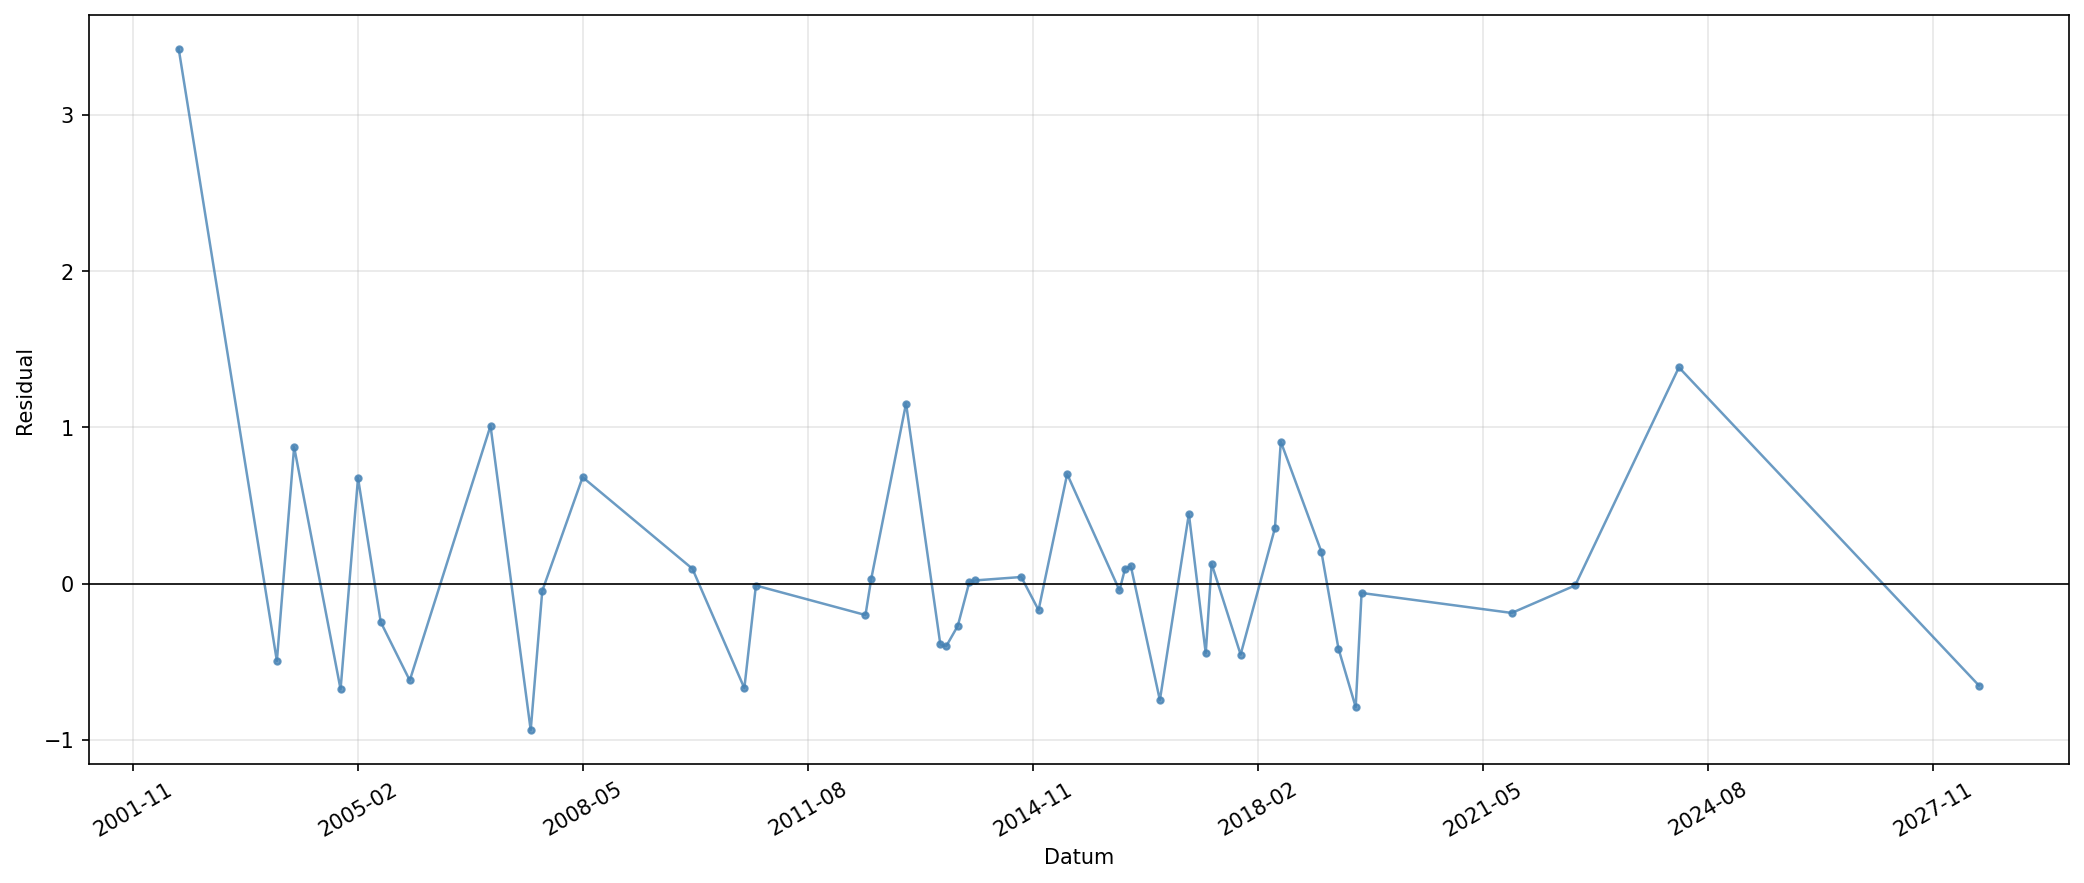
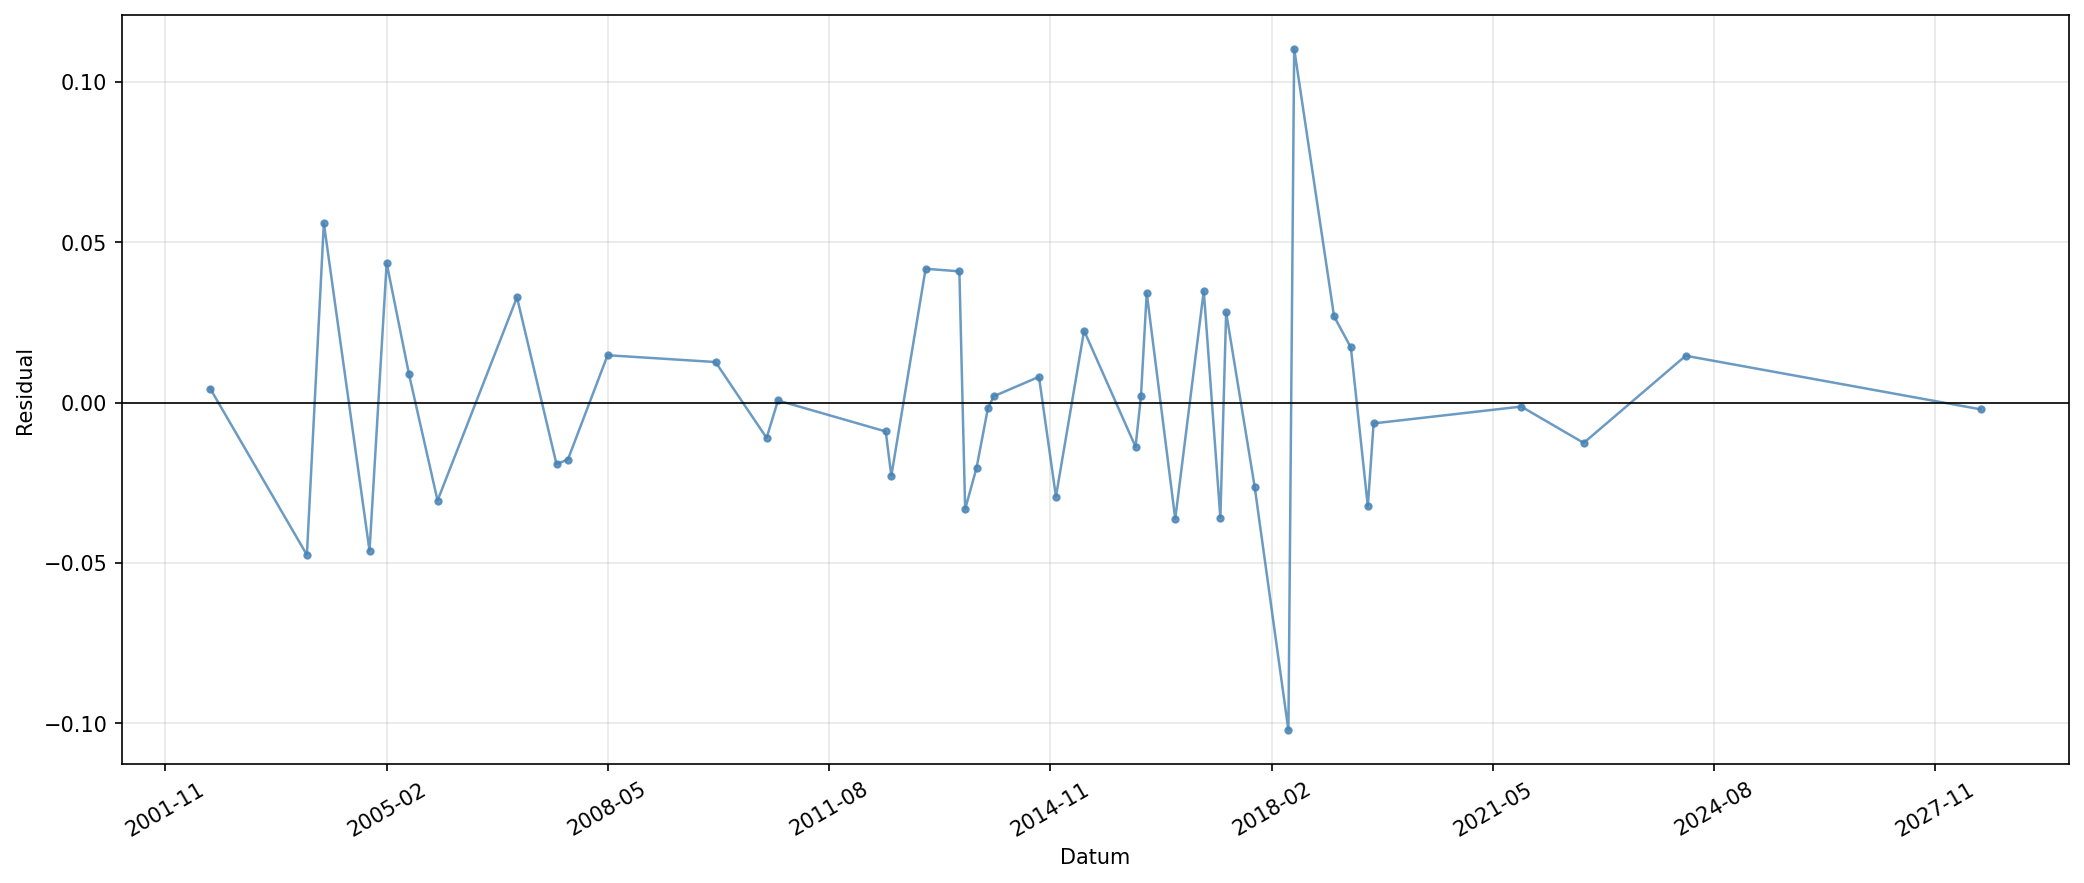
fixade residualerna
fixade residualerna

diff --git a/kandidatuppsats_endast_basror.py b/kandidatuppsats_endast_basror.py
@@ -371,7 +371,7 @@ def plot_acf_residuals(out: dict, station_id: str, lags: int = 20) -> plt.Figure
     Lodräta staplar, streckade CI-linjer, grid.
     """
     obs  = out["observed_base"]
-    pred = out["filter_pred_base"].flatten()[:len(obs)]
+    pred = out["pred_base"].flatten()[:len(obs)]
     residualer = obs - pred
 
     residualer_series = pd.Series(residualer).dropna()
@@ -407,7 +407,7 @@ def plot_histogram_residuals(out: dict, station_id: str) -> plt.Figure:
     Histogram av residualerna med överlagrad normalfördelningskurva.
     """
     obs = out["observed_base"]
-    pred = out["filter_pred_base"].flatten()[:len(obs)]
+    pred = out["pred_base"].flatten()[:len(obs)]
     residualer = pd.Series(obs - pred).dropna().values
 
     if len(residualer) < 10:
@@ -416,7 +416,7 @@ def plot_histogram_residuals(out: dict, station_id: str) -> plt.Figure:
 
     fig, ax = plt.subplots(figsize=(8, 5))
 
-    ax.hist(residualer, bins=40, density=True, alpha=0.7,
+    ax.hist(residualer, bins="auto", density=True, alpha=0.7,
             color="steelblue", edgecolor="white", label="Residualer")
 
     mu, sigma = residualer.mean(), residualer.std()
@@ -442,7 +442,7 @@ def plot_residuals_over_time(out: dict, station_id: str) -> plt.Figure:
     obs = out["observed_base"]
 
     # one-step-ahead prediction från Kalman-filtret
-    pred = out["filter_pred_base"].flatten()[:len(obs)]
+    pred = out["pred_base"].flatten()[:len(obs)]
 
     residuals = obs - pred
 
